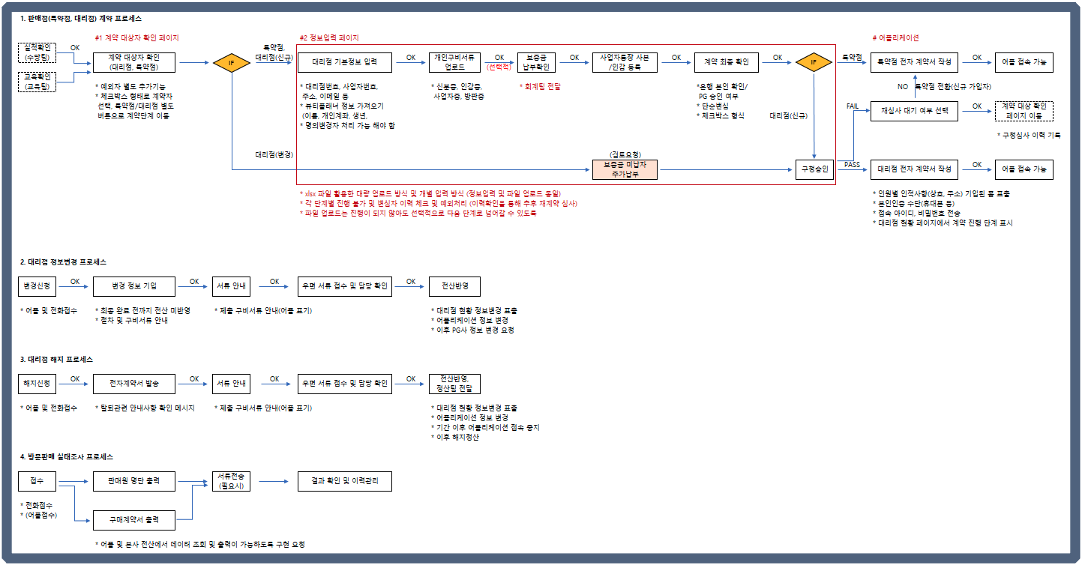
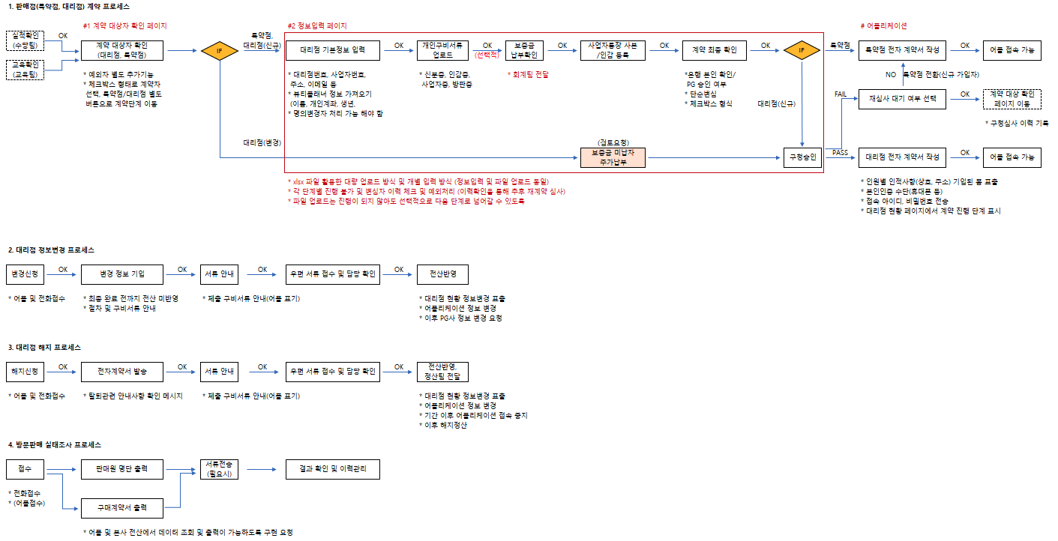
컬러 테마 변경
- 인쇄시 배경색 나오지 않도록 설정
- 이미지 테두리 제거

Changed region(s): [[0.0, 0.0, 1.0, 1.0]]

diff --git a/index.html b/index.html
@@ -23,8 +23,8 @@
                 
                     <div style="text-align: center; padding: 1rem 5rem">
                     
-                        <p style="font-size: 4rem; color: #FFFFFF;">경력기술 및 포트폴리오</p>
-                        <p style="font-size: 3rem; color: #F4B183;">Kim Tae Soo</p>
+                        <p style="font-size: 4rem;">경력기술 및 포트폴리오</p>
+                        <p style="font-size: 3rem; color: #ff771c;">Kim Tae Soo</p>
                     </div>
                 
                 </div>
@@ -43,7 +43,7 @@
         <div id="profile" class="page" data-title="Profile">
             <div class="vertical_box">
                 <div class="item_5 font_xl">
-                    <div style="border-top: 0.5rem solid #FAF566; width:3rem"></div>
+                    <div style="border-top: 0.5rem solid #6F7302; width:3rem"></div>
                     Profile
                 </div>
                 <div class="item_auto horizontal_box">
@@ -54,7 +54,7 @@
         
                             <div>
                                 <div style="text-align: center;">
-                                    <span class="font_xl">"말 잘하는 개발자입니다."</span>
+                                    <span style="font-size: 2.7rem;">"말 잘하는 개발자입니다."</span>
                                 </div>
                             </div>
         
@@ -154,7 +154,7 @@
         <div id="portfolio1" class="page" data-title="Portfolio">
             <div class="vertical_box">
                 <div class="item_5 font_xl">
-                    <div style="border-top: 0.5rem solid #FFFFFF; width:3rem"></div>
+                    <div style="border-top: 0.5rem solid #D92938; width:3rem"></div>
                     Portfolio
                 </div>
                 <div class="item_5 section_title">
@@ -213,7 +213,7 @@
         <div id="portfolio2" class="page" data-title="Portfolio">
             <div class="vertical_box">
                 <div class="item_5 font_xl">
-                    <div style="border-top: 0.5rem solid #FFFFFF; width:3rem"></div>
+                    <div style="border-top: 0.5rem solid #D92938; width:3rem"></div>
                     Portfolio
                 </div>
                 <div class="item_5 section_title">
@@ -269,7 +269,7 @@
         <div id="skills" class="page" data-title="Skills" >
             <div class="vertical_box">
                 <div class="item_5 font_xl">
-                    <div style="border-top: 0.5rem solid #9ACFDD; width:3rem"></div>
+                    <div style="border-top: 0.5rem solid #590209; width:3rem"></div>
                     Skills
                 </div>
                 <div class="item_5 section_title">
@@ -278,7 +278,7 @@
                 <div class="item_auto horizontal_box">
                     <div class="item_auto vertical_box padding_box jc_around">
                             <div class="horizontal_box">
-                                <img src="imgs/skills/python.png" alt="">
+                                <img class="shadow" src="imgs/skills/python.png" alt="">
                             </div>
                     </div>
 
@@ -327,7 +327,7 @@
         <div id="skills" class="page" data-title="Skills" >
             <div class="vertical_box">
                 <div class="item_5 font_xl">
-                    <div style="border-top: 0.5rem solid #9ACFDD; width:3rem"></div>
+                    <div style="border-top: 0.5rem solid #590209; width:3rem"></div>
                     Skills
                 </div>
                 <div class="item_5 section_title">
@@ -336,7 +336,7 @@
                 <div class="item_auto horizontal_box">
                     <div class="item_auto vertical_box padding_box jc_around">
                             <div class="horizontal_box">
-                                <img src="imgs/skills/ahk.png" alt="">
+                                <img class="shadow" src="imgs/skills/ahk.png" alt="">
                             </div>
                     </div>
 
@@ -383,7 +383,7 @@
         <div id="skills" class="page" data-title="Skills" >
             <div class="vertical_box">
                 <div class="item_5 font_xl">
-                    <div style="border-top: 0.5rem solid #9ACFDD; width:3rem"></div>
+                    <div style="border-top: 0.5rem solid #590209; width:3rem"></div>
                     Skills
                 </div>
                 <div class="item_5 section_title">
@@ -392,7 +392,7 @@
 
                 <div class="item_50 horizontal_box">
                     <div class="item_auto padding_box vertical_box ma_center ca_center">
-                        <img src="imgs/skills/office.png" alt="" style="max-height: 40rem;">
+                        <img class="shadow" src="imgs/skills/office.png" alt="" style="max-height: 40rem;">
                     </div>
                     <div class="item_50 vertical_box jc_center padding_box desk_only">
                         <div>
@@ -424,7 +424,7 @@
 
                 <div class="item_50 horizontal_box">
                     <div class="item_auto padding_box vertical_box ma_center ca_center">
-                        <img src="imgs/skills/ppt.png" alt="" style="max-height: 40rem;">
+                        <img class="shadow" src="imgs/skills/ppt.png" alt="" style="max-height: 40rem;">
                     </div>
                     <div class="item_50 vertical_box jc_center padding_box desk_only">
                         <div>
@@ -464,19 +464,22 @@
 
                 <div class="item_50 horizontal_box">
                     <div class="item_auto padding_box vertical_box ma_center ca_center">
-                            <p class="font_xl" style="border:0.5rem solid white;border-radius: 10rem; text-align: center;width:22rem;">리만코리아</p> 
-                            <p class="font_lg">2019.09 ~ 2020.12</p>
-                            <p class="font_lg">대리점관리팀 / 대리</p>
-                            <ul class="font_lg">
-                                <li>대리점 계약 관리</li>
-                                <li>매출 분석</li>
-                                <li>관공서 미팅</li>
-                            </ul>
+                        <div class="cover_border">
+                            <span></span><span></span><span></span><span></span><span></span><span></span>
+                            <div class="font_xl" style="padding:0.5rem 1rem; width:25rem;text-align: center;">리만코리아</div>
+                        </div>
+                        <p class="font_lg">2019.09 ~ 2020.12</p>
+                        <p class="font_lg">대리점관리팀 / 대리</p>
+                        <ul class="font_lg">
+                            <li>대리점 계약 관리</li>
+                            <li>매출 분석</li>
+                            <li>관공서 미팅</li>
+                        </ul>
                     </div>
                     <div class="item_70 desk_only">
                         <div class="horizontal_box jc_around">
-                            <img src="imgs/career/career.png" alt="" style="max-height: 25rem;">
-                            <img src="imgs/career/career2.png" alt="" style="max-height: 25rem;">
+                            <img class="shadow" src="imgs/career/career.png" alt="" style="max-height: 25rem;">
+                            <img class="shadow" src="imgs/career/career2.png" alt="" style="max-height: 25rem;">
                         </div>
 
                         <div>
@@ -500,7 +503,10 @@
 
                 <div class="item_auto horizontal_box">
                     <div class="item_auto padding_box vertical_box ma_center ca_center">
-                        <p class="font_xl" style="border:0.5rem solid white;border-radius: 10rem; text-align: center;width:22rem;">롯데아사히주류</p>   
+                        <div class="cover_border">
+                            <span></span><span></span><span></span><span></span><span></span><span></span>
+                            <div class="font_xl" style="padding:0.5rem 1rem; width:25rem;text-align: center;">롯데아사히주류</div>
+                        </div>
                         <p class="font_lg">2017.01 ~ 2019.03<br></p>
                         <p class="font_lg">Hyper지점 / 대리</p>
                         <ul class="font_lg">
@@ -512,8 +518,8 @@
                     </div>
                     <div class="item_70 desk_only">
                         <div class="horizontal_box jc_around">
-                            <img src="imgs/career/career3.png" alt="" style="max-height: 25rem;">
-                            <img src="imgs/career/career4.png" alt="" style="max-height: 25rem;">
+                            <img class="shadow" src="imgs/career/career3.png" alt="" style="max-height: 25rem;">
+                            <img class="shadow" src="imgs/career/career4.png" alt="" style="max-height: 25rem;">
                         </div>
                         <div>
                             <p class="section_title">후원 방문판매 전환 프로젝트</p>

diff --git a/main.css b/main.css
@@ -9,6 +9,13 @@ colors
     background-color: rgba(223, 220, 220, 0.1);
 } */
 
+@font-face {
+    font-family: 'S-CoreDream-5Medium';
+    src: url('https://cdn.jsdelivr.net/gh/projectnoonnu/noonfonts_six@1.2/S-CoreDream-5Medium.woff') format('woff');
+    font-weight: normal;
+    font-style: normal;
+}
+
 /* 인쇄 설정 */
 @page {size: A4 landscape; margin: 0;}
 
@@ -30,6 +37,8 @@ colors
         min-height: initial !important;
         /* padding: 10mm !important; */
 
+        background-color: white !important;
+
         page-break-after: always;
     }
 
@@ -46,7 +55,7 @@ html {
 }
 
 #contents{
-    background-color: #e3e3e3;
+    background-color: white;
     padding: 0 calc((100vw - (100vh * 1.414))/2 ); 
     min-width: calc(100vh * 1.39);
 }
@@ -77,18 +86,18 @@ body {
     margin: 0;
     min-width: 370px;
     
-    font-family: -apple-system, BlinkMacSystemFont, 'Segoe UI', Roboto, Oxygen, Ubuntu, Cantarell, 'Open Sans', 'Helvetica Neue', sans-serif;
+    font-family: 'S-CoreDream-5Medium', -apple-system, BlinkMacSystemFont, 'Segoe UI', Roboto, Oxygen, Ubuntu, Cantarell, 'Open Sans', 'Helvetica Neue', sans-serif;
     font-size: 2rem;
 
-    color: white;
+    color: black;
 
     -webkit-print-color-adjust: exact;
     print-color-adjust: exact;
 }
 
 /* 링크 */
-a {color: white;/* text-decoration: none; */}
-a:visited {color: white;}
+a {color: black;/* text-decoration: none; */}
+a:visited {color: black;}
 
 p {margin: 0.5rem 0;}
 
@@ -99,7 +108,7 @@ hr.hr1 {
 
 .section_title {
     font-size: 2rem;
-    color: #F4B183;
+    color: #ff771c;
 }
 
 span.highlight{
@@ -128,7 +137,7 @@ a.github {
     /* width: 100vw; */
     height: calc(100vh - 10rem);
     width: calc(100% - 10rem);
-    background-color: #566A88;
+    background-color: #e3e3e3;
     
 }
 
@@ -162,7 +171,7 @@ a.github {
 }
 
 #nav li.focused {
-    color: white;
+    color: #ff771c;
     /* font-weight: bold; */
 }
 
@@ -237,12 +246,12 @@ a.github {
 
 /* 표지 테두리 */
 .cover_border{position: relative;width: max-content;}
-.cover_border span:nth-child(1) {position: absolute; left: 0; top: 0; width: 0.5rem;height:100%;background-color: white; }
-.cover_border span:nth-child(2) {position: absolute; left: 0; top: 0; width: 10%;height:0.5rem;background-color: white; }
-.cover_border span:nth-child(3) {position: absolute; left: 0; bottom: 0; width: 5%;height:0.5rem;background-color: white; }
-.cover_border span:nth-child(4) {position: absolute; right: 0; top: 0; width: 0.5rem;height:100%;background-color: white; }
-.cover_border span:nth-child(5) {position: absolute; right: 0; top: 0; width: 5%;height:0.5rem;background-color: white; }
-.cover_border span:nth-child(6) {position: absolute; right: 0; bottom: 0; width: 10%;height:0.5rem;background-color: white; }
+.cover_border span:nth-child(1) {position: absolute; left: 0; top: 0; width: 0.5rem;height:100%;background-color: #ff771c; }
+.cover_border span:nth-child(2) {position: absolute; left: 0; top: 0; width: 10%;height:0.5rem;background-color: #ff771c; }
+.cover_border span:nth-child(3) {position: absolute; left: 0; bottom: 0; width: 5%;height:0.5rem;background-color: #ff771c; }
+.cover_border span:nth-child(4) {position: absolute; right: 0; top: 0; width: 0.5rem;height:100%;background-color: #ff771c; }
+.cover_border span:nth-child(5) {position: absolute; right: 0; top: 0; width: 5%;height:0.5rem;background-color: #ff771c; }
+.cover_border span:nth-child(6) {position: absolute; right: 0; bottom: 0; width: 10%;height:0.5rem;background-color: #ff771c; }
 
 /* 사진목록 */
 .photo_list {display: flex; justify-content: center; flex-wrap: nowrap; max-height: 20%;}
@@ -278,3 +287,8 @@ th,td img {
 /* #contents li::before {
     content: "- ";
 } */
+
+/* 박스 섀도우 */
+.shadow{
+    box-shadow:0 0.5rem 0.8rem rgba(0,0,0,0.16), 0 0.5rem 0.8rem rgba(0,0,0,0.23);
+}
